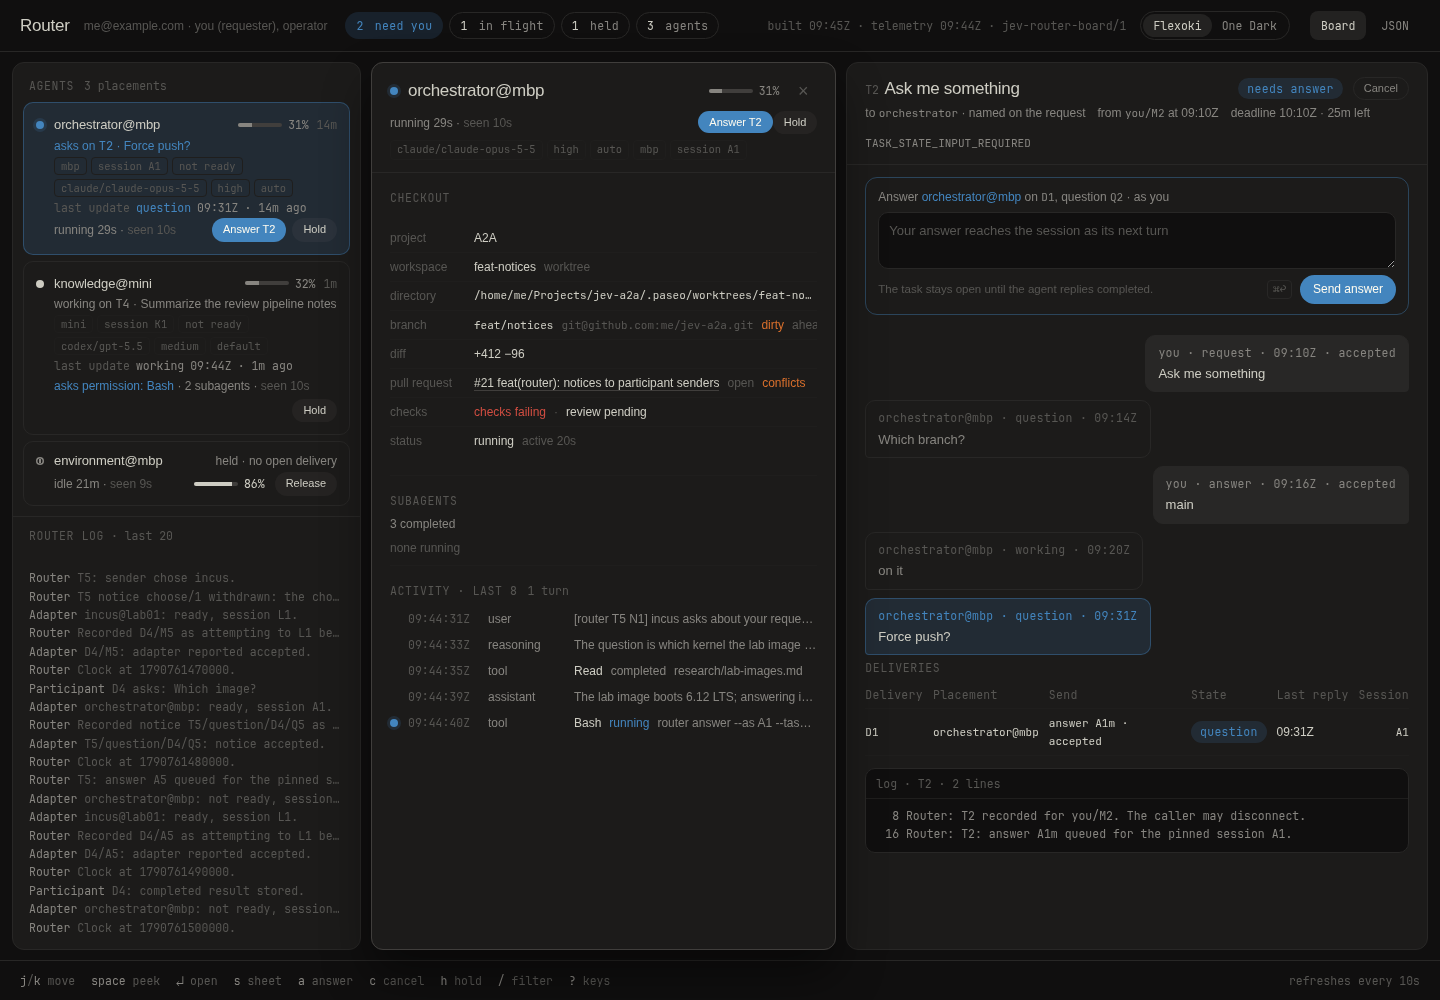
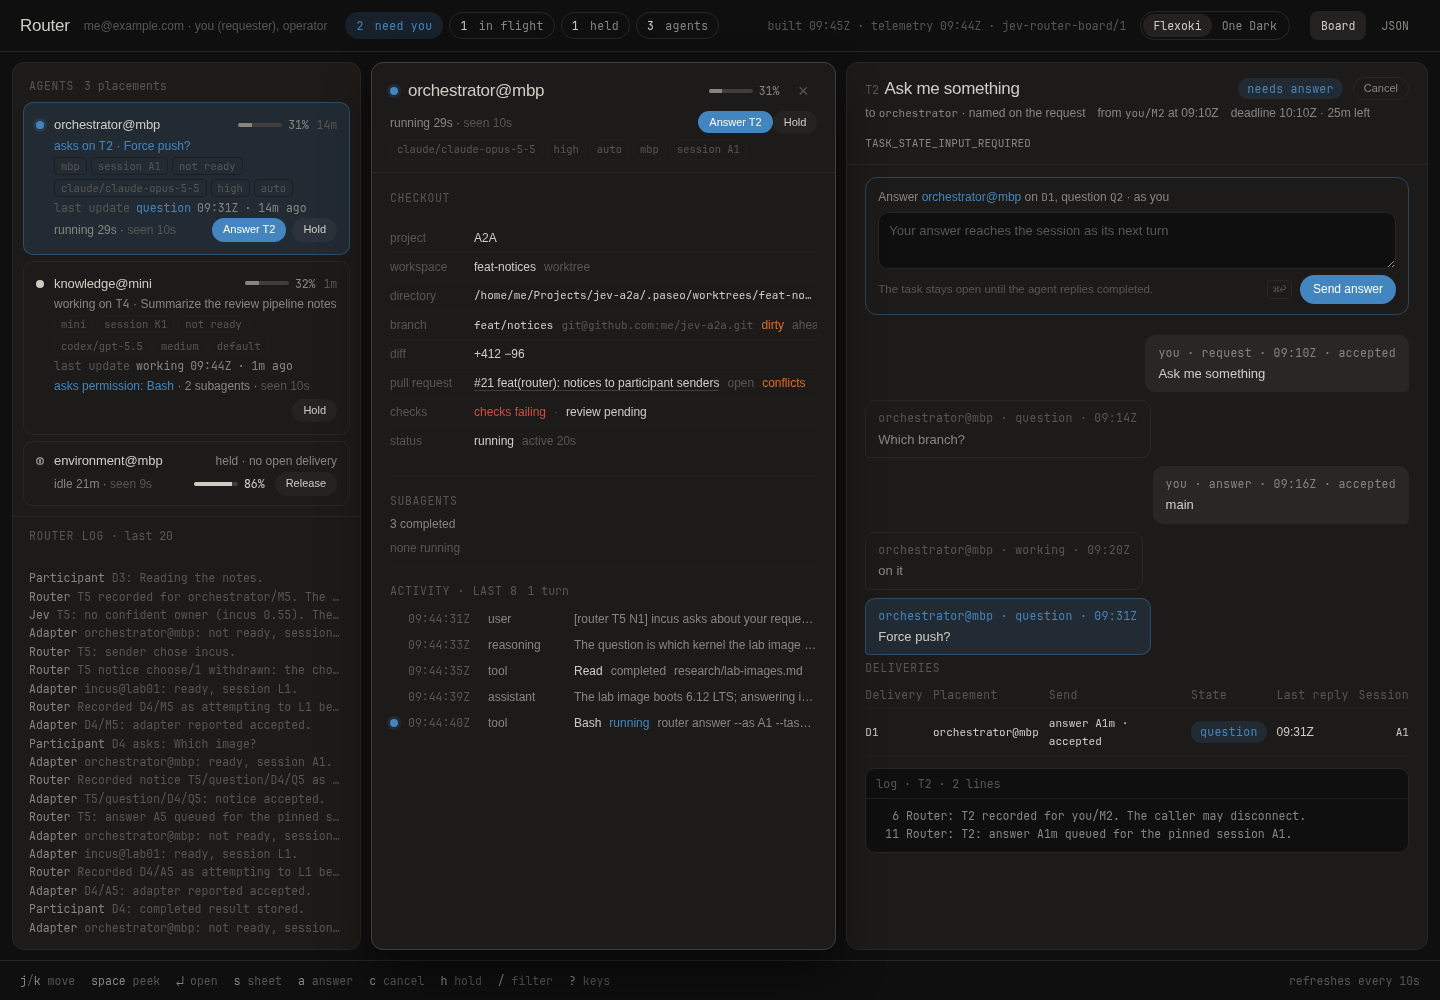
fix(board): the router side of the v0.12 review
From the design agent's review of the live page (T55): a clock that
ended nothing no longer writes a log line, so a polling router's log
stays what happened (8 of 20 lines were "Clock at"); the activity tail
leaves out the harness's own tool calls (task_notification), fetched
with room so the tail stays eight long; and the refresh keeps a panel or
the open sheet that holds a text selection, as it already keeps one
holding the focus, so a request being read or copied is not pulled away
every ten seconds. The last was checked over CDP on a headless Chromium
against a serve from this branch: the selected detail survived a refresh
with its selection while the other panels swapped, and swapped again once
the selection was cleared. Sample and screenshots regenerated.

Changed region(s): [[0.0312, 0.558, 0.2188, 0.93]]

diff --git a/router/src/board-page.ts b/router/src/board-page.ts
@@ -1865,7 +1865,9 @@ document.addEventListener("click", (e) => {
 // Every few seconds the page fetches itself for the selected task and swaps
 // the nav counts, the three panels and the sheets. A panel holding the
 // focus stays as it is, unless the focus is on a row or a card the new
-// panel has too. The notice is outside the swapped parts.
+// panel has too; so does one holding a text selection, so a request being
+// read or copied is not pulled away mid-sentence. The notice is outside
+// the swapped parts.
 const PARTS = [".nav .counts", ".nav .tick", ".agents", ".tasks", ".detail"];
 const refresh = async (id = selected()) => {
   if (document.hidden) return;
@@ -1876,6 +1878,8 @@ const refresh = async (id = selected()) => {
     doc = new DOMParser().parseFromString(await r.text(), "text/html");
   } catch { return; }
   const focus = document.activeElement;
+  const sel = document.getSelection();
+  const marked = sel && !sel.isCollapsed ? sel.anchorNode : null;
   const row = focus?.matches(".task a.id") ? focus.closest(".task").dataset.task : null;
   const card = focus?.matches(".card") ? focus.dataset.path : null;
   const open = peek();
@@ -1885,7 +1889,7 @@ const refresh = async (id = selected()) => {
   for (const part of PARTS) {
     const old = $(part);
     const next = $(part, doc);
-    if (!old || !next || (old.contains(focus) && !row && !card)) continue;
+    if (!old || !next || (old.contains(focus) && !row && !card) || (marked && old.contains(marked))) continue;
     const top = $(".scroll", old)?.scrollTop ?? 0;
     old.replaceWith(next);
     const scroll = $(".scroll", next);
@@ -1902,7 +1906,7 @@ const refresh = async (id = selected()) => {
   $$(".bento > .sheet", doc).forEach((s) => s.dataset.key !== shown && $(".bento").append(s));
   const fresh = shown && sheetFor(shown, doc);
   if (kept && !fresh) kept.remove();
-  else if (kept && fresh && !kept.contains(focus)) {
+  else if (kept && fresh && !kept.contains(focus) && !(marked && kept.contains(marked))) {
     const top = $(".body", kept).scrollTop;
     kept.dataset.path = fresh.dataset.path;
     kept.replaceChildren(...fresh.children);

diff --git a/router/src/paseo.ts b/router/src/paseo.ts
@@ -258,13 +258,19 @@ export function subagentsOf(list: ProviderSubagent[], limit = 20): Subagents {
   return { counts, running };
 }
 
+// Tool calls the harness makes to itself (a background command's
+// completion notice), not the session's work: the tail leaves them out.
+const HARNESS_TOOLS = new Set(["task_notification"]);
+
 // A timeline tail, each entry cut to a line: what it was, its first line
-// of text, and for a tool call its name and state.
-export function activityOf(entries: TimelineEntry[]): Activity {
+// of text, and for a tool call its name and state. `limit` keeps the last
+// so many after the harness's own calls are dropped.
+export function activityOf(entries: TimelineEntry[], limit?: number): Activity {
   const items = entries.flatMap((e): ActivityItem[] => {
     const item = e.item;
     const kind = oneOf(ACTIVITY_KINDS, item.type);
     if (!kind) return [];
+    if (item.type === "tool_call" && HARNESS_TOOLS.has(item.name)) return [];
     const base = { at: e.timestamp, kind, tool: null, status: null };
     switch (item.type) {
       case "user_message":
@@ -296,9 +302,10 @@ export function activityOf(entries: TimelineEntry[]): Activity {
         return [{ ...base, text: null }];
     }
   });
+  const kept = limit === undefined ? items : items.slice(-limit);
   return {
-    turns: items.filter((i) => i.kind === "user_message").length,
-    items,
+    turns: kept.filter((i) => i.kind === "user_message").length,
+    items: kept,
   };
 }
 
@@ -385,7 +392,8 @@ export function adapterOver(
           snapshot.activity = await attempt(
             "activity",
             agentId,
-            async () => activityOf(await daemon.tail(agentId, tail)),
+            // Fetched with room for the harness's own calls, cut to the tail.
+            async () => activityOf(await daemon.tail(agentId, tail + 4), tail),
             notes,
           );
         }

diff --git a/router/src/paseo.test.ts b/router/src/paseo.test.ts
@@ -282,6 +282,34 @@ const entry = (
   collapsed: [],
 });
 
+test("activityOf drops the harness's own tool calls and keeps the last `limit` of what is left", () => {
+  const tool = (at: string, name: string) =>
+    entry(at, {
+      type: "tool_call",
+      callId: `c-${at}`,
+      name,
+      detail: { type: "plain_text", text: at },
+      status: "completed",
+      error: null,
+    });
+  const activity = activityOf(
+    [
+      entry("t0", { type: "user_message", text: "go" }),
+      tool("t1", "Bash"),
+      tool("t2", "task_notification"),
+      tool("t3", "Bash"),
+      tool("t4", "task_notification"),
+      tool("t5", "Read"),
+    ],
+    3,
+  );
+  assert.deepEqual(
+    activity.items.map((i) => i.at),
+    ["t1", "t3", "t5"],
+  );
+  assert.equal(activity.turns, 0, "turns count the kept window");
+});
+
 test("activityOf cuts each entry to a line and counts the user messages", () => {
   const long = "x".repeat(200);
   assert.deepEqual(
@@ -426,14 +454,15 @@ test("a live session gets the whole sheet; the workspace list is read once per a
   });
   assert.equal(first?.notes, undefined);
   assert.equal(second?.snapshot.checkout?.branch, "feat/x");
+  // The tail is fetched with room for the harness's own calls (four more).
   assert.deepEqual(calls, [
     "refresh A1",
     "workspaces",
     "subagents A1",
-    "tail A1 3",
+    "tail A1 7",
     "refresh A2",
     "subagents A2",
-    "tail A2 3",
+    "tail A2 7",
   ]);
 });
 

diff --git a/router/src/core.test.ts b/router/src/core.test.ts
@@ -2085,9 +2085,12 @@ test("deadline fails the task; an unconfirmed send still blocks its session unti
     to: "orchestrator",
   });
   s = deliver(s, "D1", "unknown");
+  const lines = s.log.length;
   s = expectOk(s, { type: "tick", now: 50 });
+  assert.equal(s.log.length, lines, "a clock that ends nothing logs nothing");
   s = submit(s, { messageId: "M2", text: "Next job", to: "orchestrator" });
   s = expectOk(s, { type: "tick", now: 100 });
+  assert.match(s.log.at(-1)?.text ?? "", /^Deadline passed: T1 failed/);
   assert.equal(task(s).status, "failed");
   assert.equal(task(s, "T2").status, "queued");
   s = idle(s);

diff --git a/router/src/core.ts b/router/src/core.ts
@@ -1224,10 +1224,12 @@ const handlers: Handlers = {
         task.final = verdict(task, "deadline");
         expired.push(`${task.id} ${task.final.status}`);
       }
+    // A clock that ended nothing is not news: no log line, so a polling
+    // router's log stays what happened.
     return ok(
       expired.length
         ? `Deadline passed: ${expired.join(", ")}. Unconfirmed sends keep holding their sessions until they end or are reconciled.`
-        : `Clock at ${now}.`,
+        : "",
     );
   },
 };
